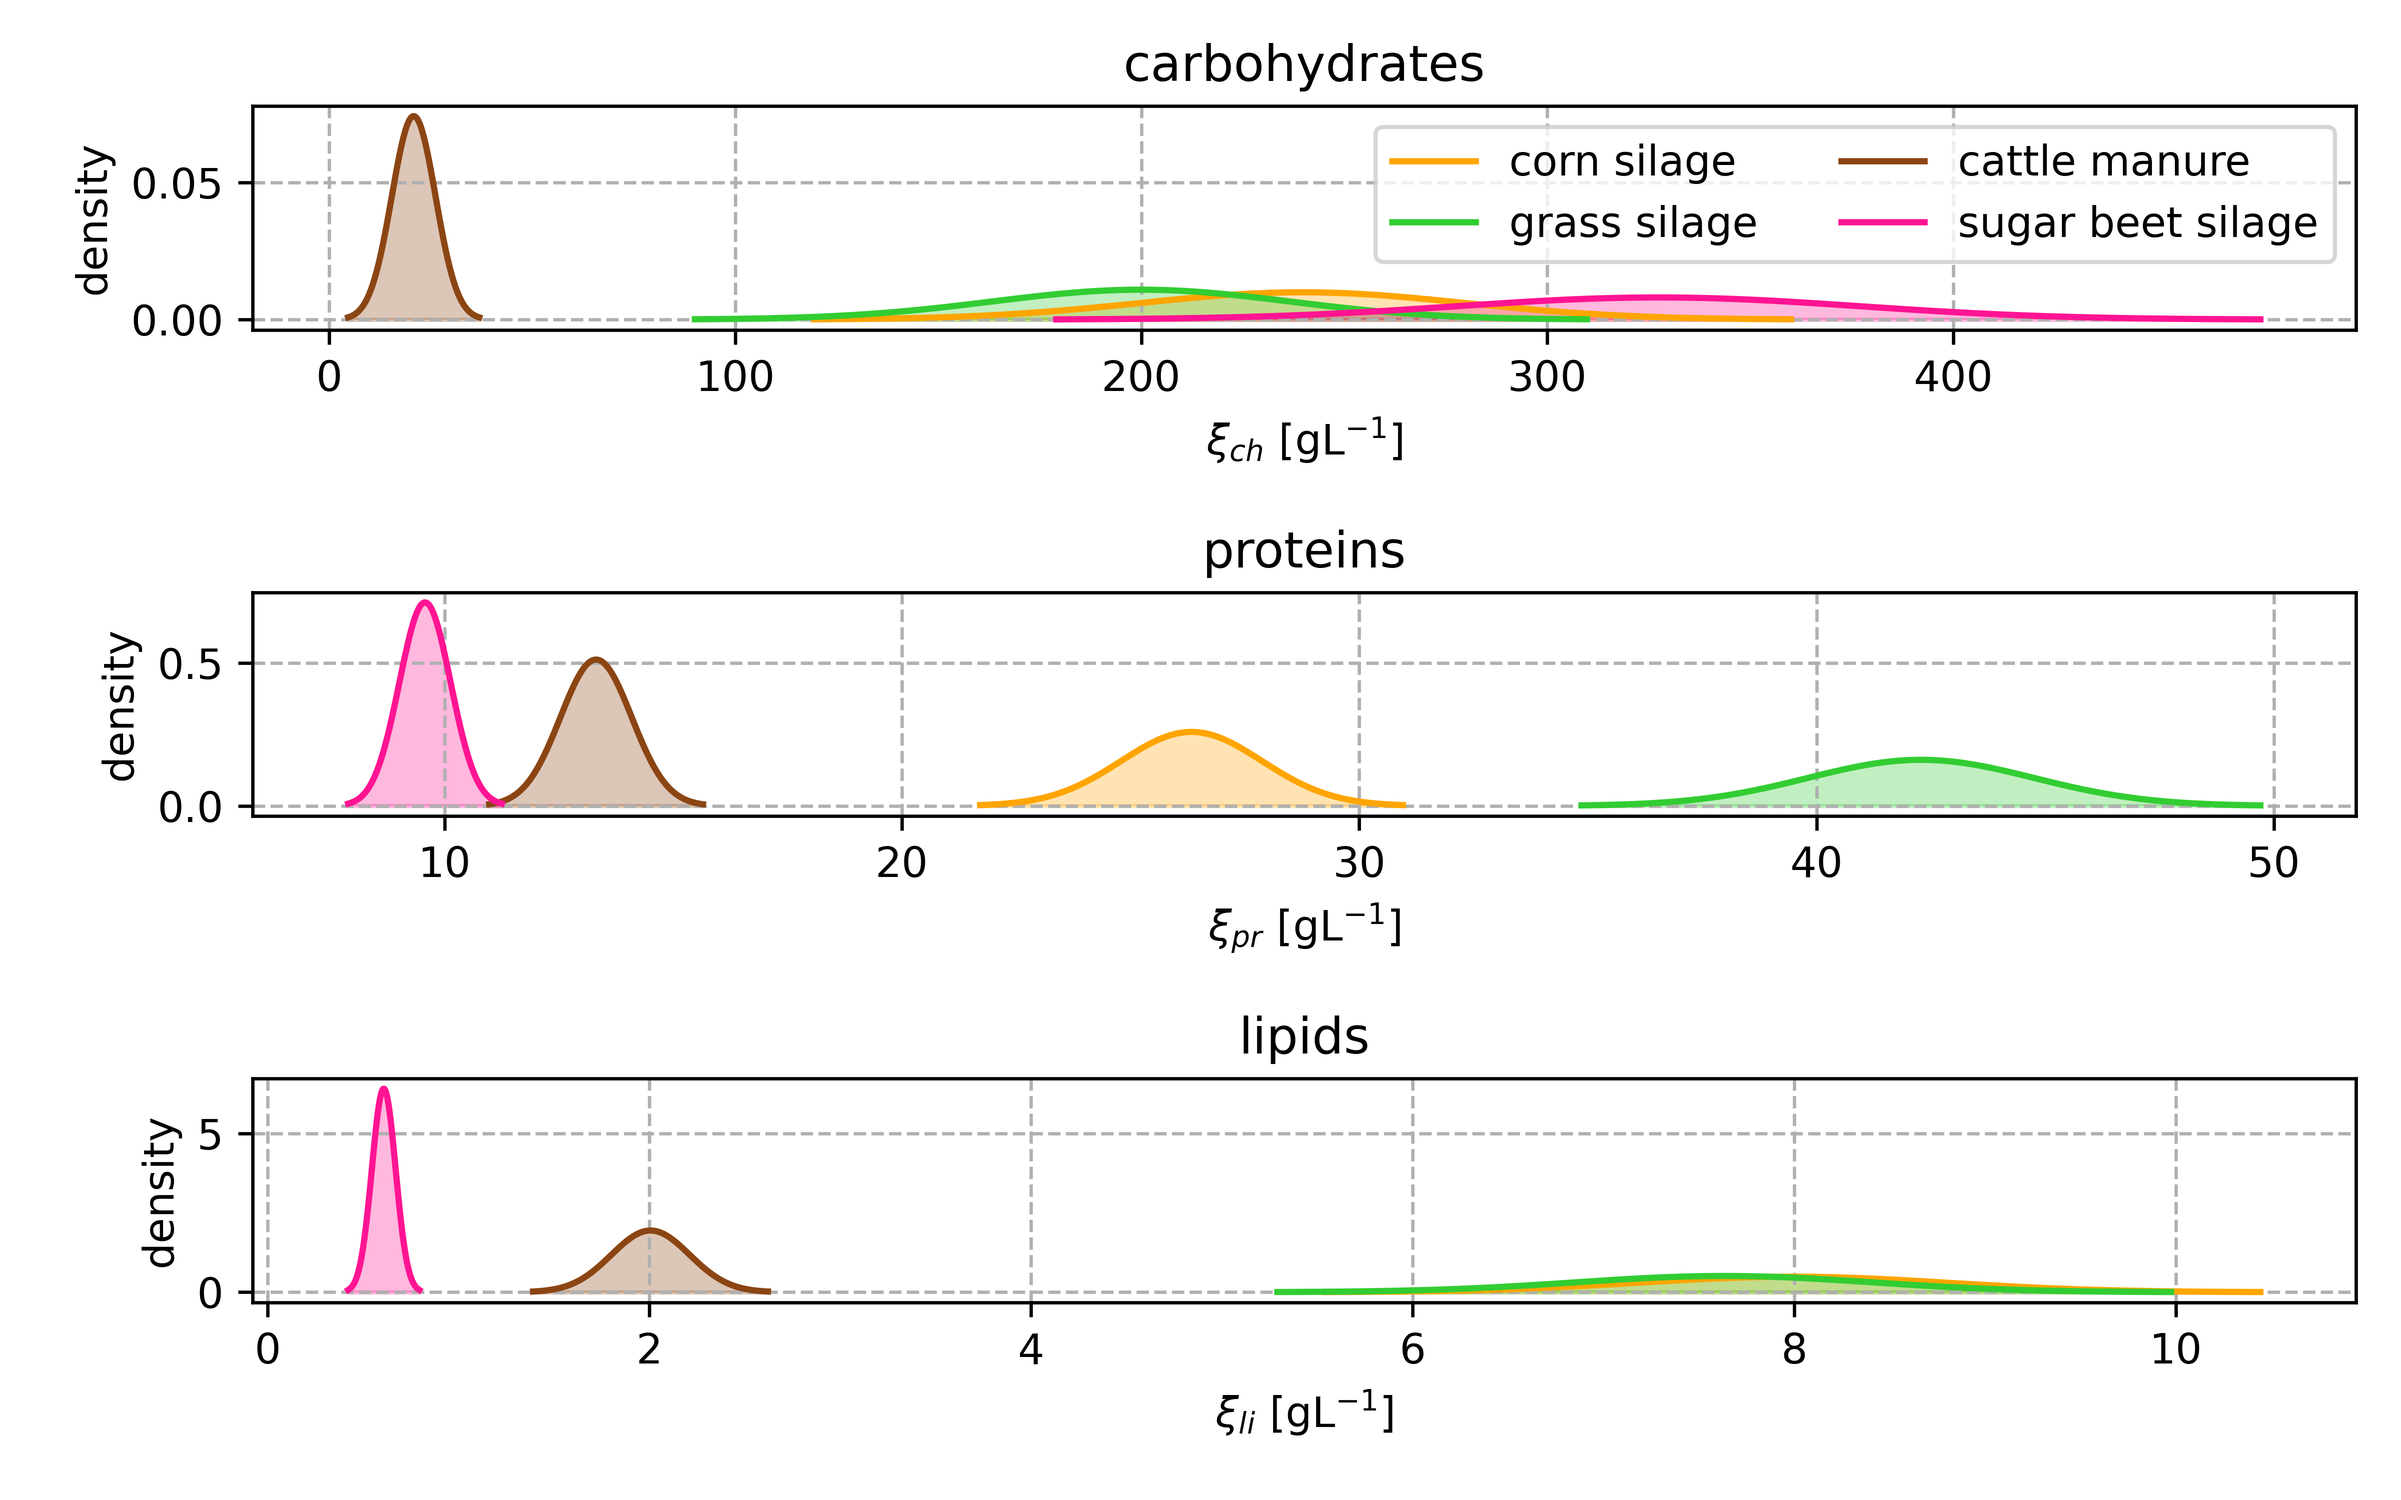
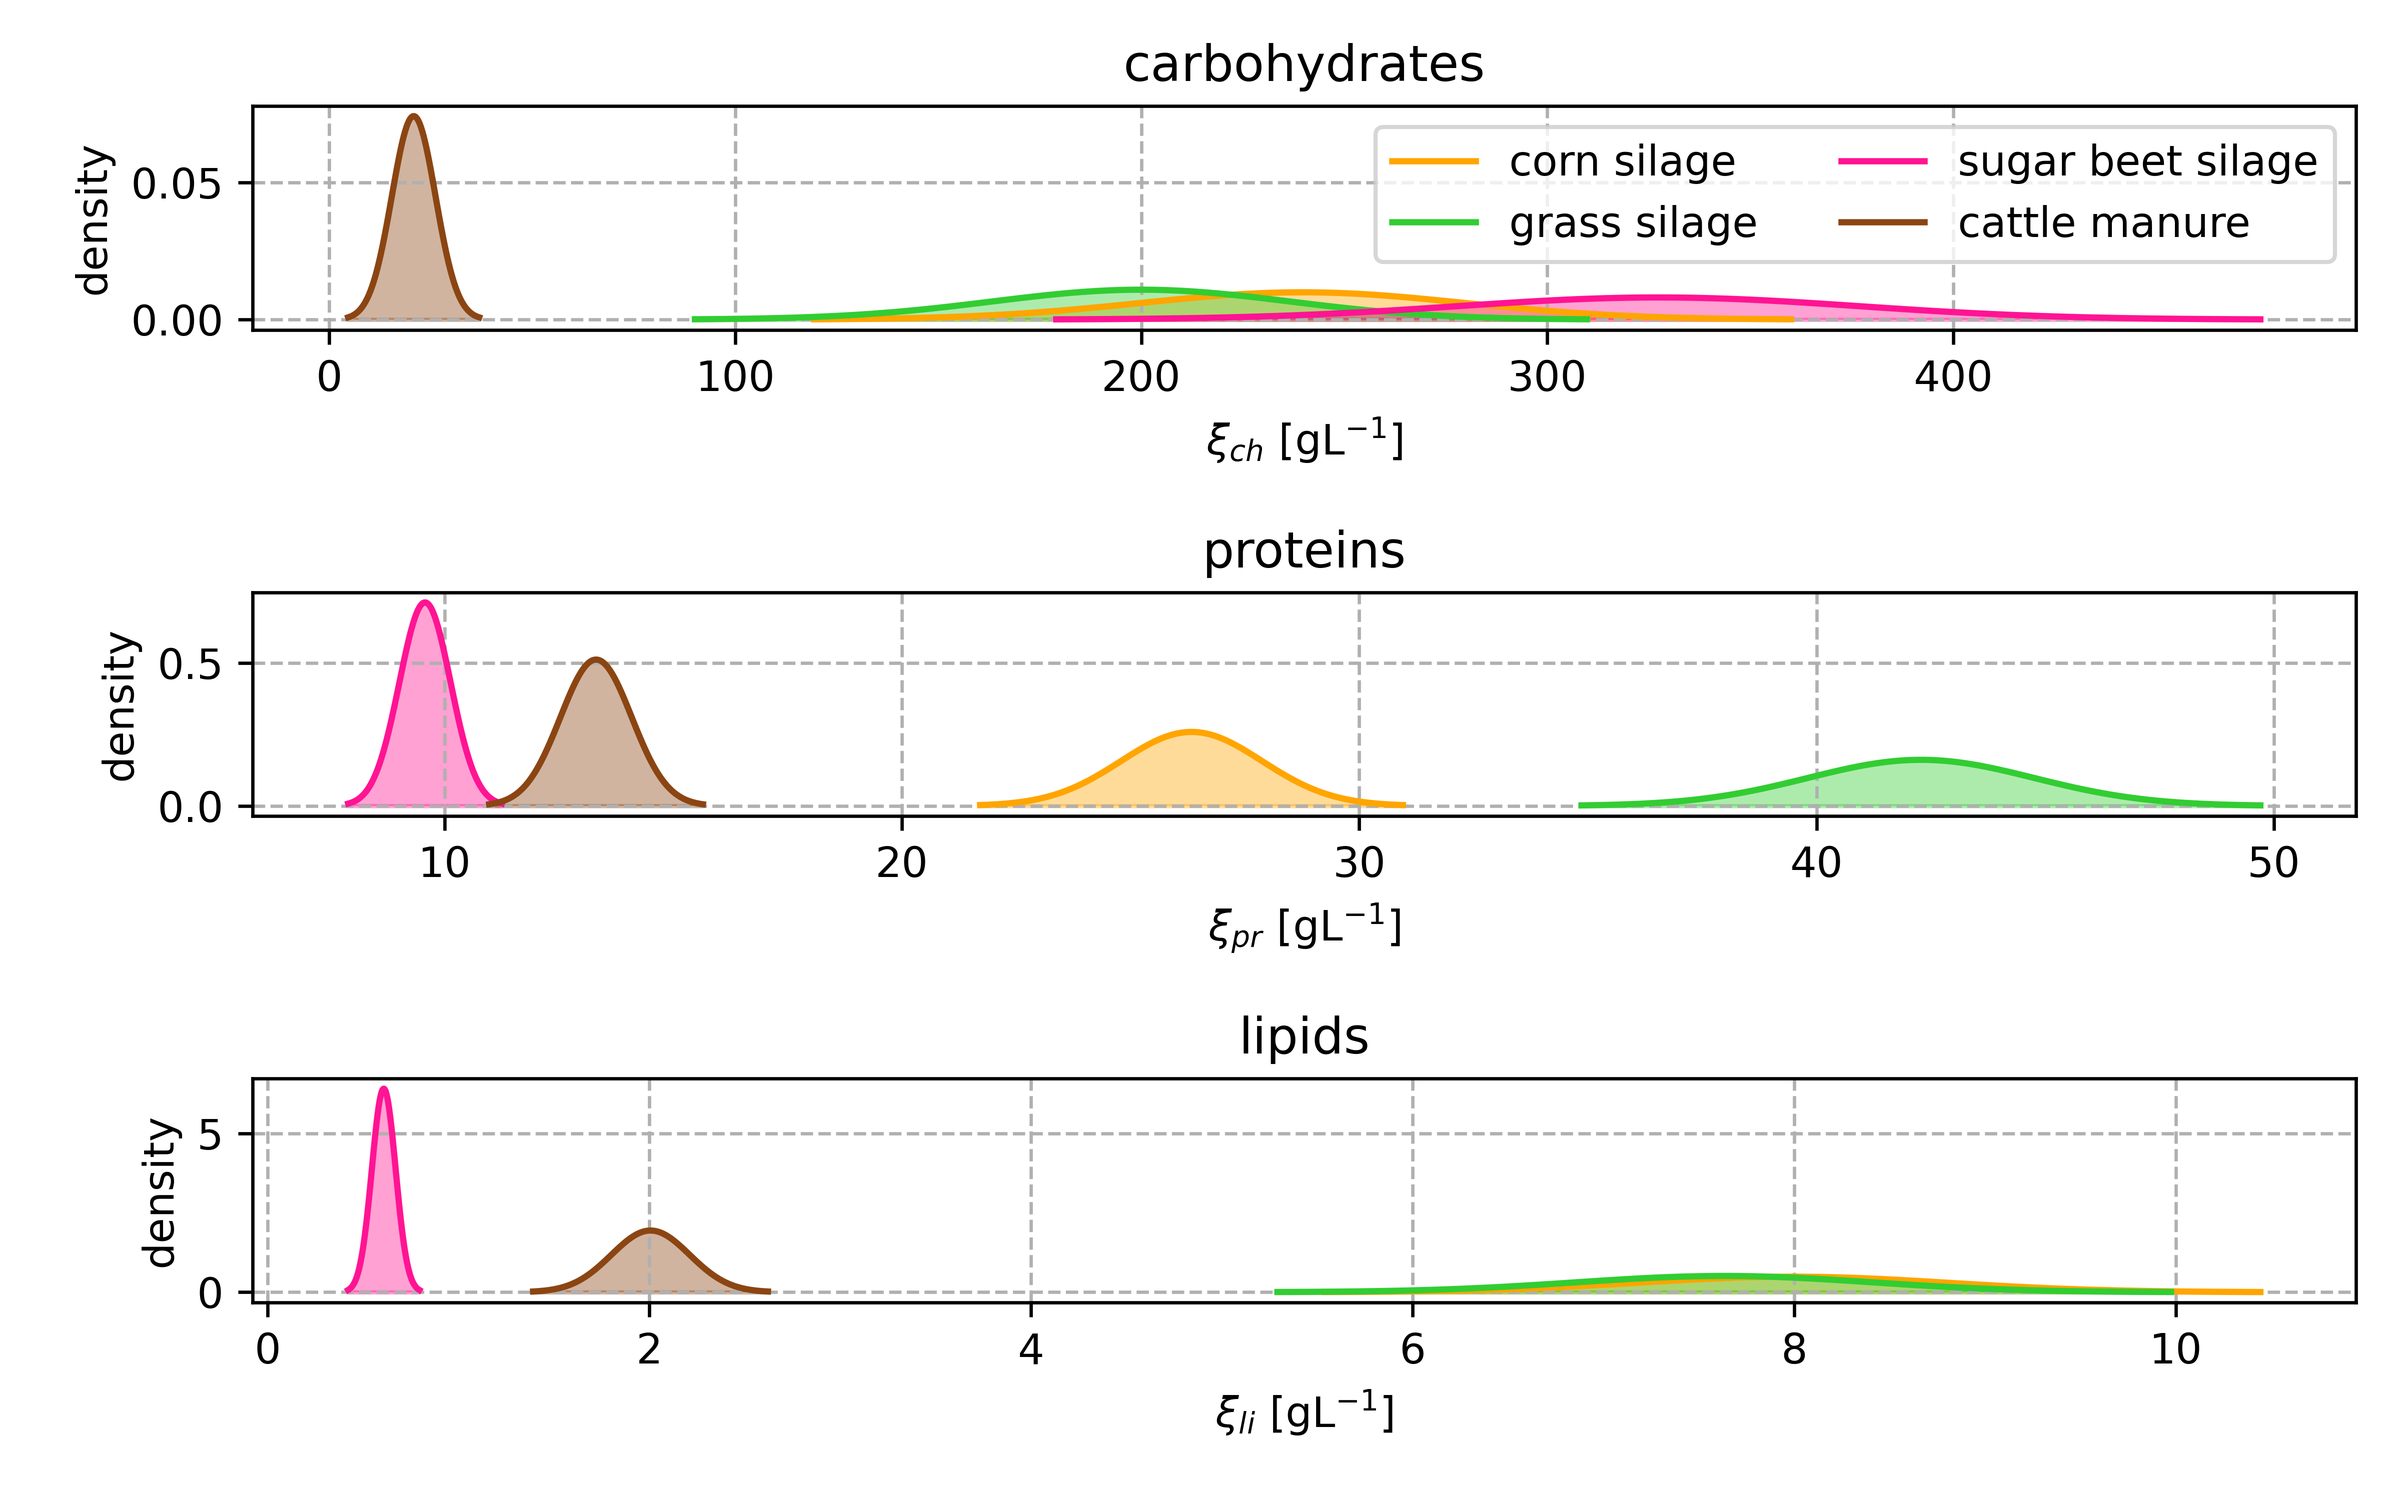
update normal distributions Julius

diff --git a/ad_meal_prep_control/plot_generation/plot_xi_distributions.py b/ad_meal_prep_control/plot_generation/plot_xi_distributions.py
@@ -8,46 +8,80 @@ from matplotlib import colors
 from ad_meal_prep_control.utils import Scenario
 from ad_meal_prep_control import substrates
 
-# load input concentrations from excel:
-file_path = '../../data/data_out/v2023/nominal_inlet_concentrations.xlsx'
-macro_nutrients_data = pd.read_excel(file_path)
-
-# Extract macro nutrients from excel:
-substrate_cols = ['Maissilage', 'Grassilage', 'Rinderguelle', 'Zuckerruebensilage']
-carbs = macro_nutrients_data.loc[5, substrate_cols].values
-proteins = macro_nutrients_data.loc[7, substrate_cols].values
-lipids = macro_nutrients_data.loc[8, substrate_cols].values
-
-means_all = {
-    "ch": np.append(carbs, carbs[2]),  # append uncertain cattle manure
-    "pr": np.append(proteins, proteins[2]),
-    "li": np.append(lipids, lipids[2]),
-}
-
-std_devs_all = {
-    "ch": [40.085336, 36.613181, 5.378375, 49.423171],
-    "pr": [1.540789, 2.473993, 0.778969, 0.560114],
-    "li": [0.817209, 0.780554, 0.205133, 0.062160],
-}
+### preliminaries:
 substrate_names = [
     "CORN_SILAGE",
     "GRASS_SILAGE",
-    "CATTLE_MANURE",
     "SUGAR_BEET_SILAGE",
+    "CATTLE_MANURE",
 ]
 
 substrate_colors = {
     "CORN_SILAGE": "orange",
     "GRASS_SILAGE": "limegreen",
-    "CATTLE_MANURE": "saddlebrown",
     "SUGAR_BEET_SILAGE": "deeppink",
+    "CATTLE_MANURE": "saddlebrown",
+}
+substrate_colors_dark = {
+    "CORN_SILAGE": "darkorange",
+    "GRASS_SILAGE": "green",
+    "SUGAR_BEET_SILAGE": "maroon",
+    "CATTLE_MANURE": "mediumvioletred",
 }
 
+### get data
+## theoretical data:
+# load input concentrations from excel:
+file_path = '../../data/data_out/v2023/nominal_inlet_concentrations.xlsx'
+macro_nutrients_data = pd.read_excel(file_path)
+
+# Extract macro nutrients from excel:
+substrate_cols = ['Maissilage', 'Grassilage', 'Zuckerruebensilage', 'Rinderguelle']
+carbs = macro_nutrients_data.loc[5, substrate_cols].values
+proteins = macro_nutrients_data.loc[7, substrate_cols].values
+lipids = macro_nutrients_data.loc[8, substrate_cols].values
+
+means_all = {   # ignore cattle manure very uncertain
+    "ch": carbs,
+    "pr": proteins,
+    "li": lipids,
+}
+
+std_devs_all = {
+    "ch": [40.085336, 36.613181, 49.423171, 5.378375],
+    "pr": [1.540789, 2.473993, 0.560114, 0.778969],
+    "li": [0.817209, 0.780554, 0.062160, 0.205133],
+}
+
+## measured data:
+# Read all sheets into a dictionary of DataFrames
+excel_file = '../../data/data_out/v2023/macro_nutrients_concentrations.xlsx'
+all_sheets = pd.read_excel(excel_file, sheet_name=None)
+
+df_cornsilage = all_sheets['Maissilage']
+df_grassilage = all_sheets['Grassilage']
+df_sugarbeet = all_sheets['Zuckerruebensilage']
+df_manure = all_sheets['Rinderguelle']
+dfs_substrates = [df_cornsilage, df_grassilage, df_sugarbeet, df_manure]
+
+#sub_names = ['corn silage', 'grass silage', 'sugar beet silage', 'cattle manure']
+#sub_colors = ['orange', 'limegreen', 'deeppink', 'saddlebrown']
+
+df_carbs = pd.concat(
+    [df_cornsilage.iloc[:, 0], df_grassilage.iloc[:, 0], df_sugarbeet.iloc[:, 0], df_manure.iloc[:, 0]], axis=1)
+df_protein = pd.concat(
+    [df_cornsilage.iloc[:, 1], df_grassilage.iloc[:, 1], df_sugarbeet.iloc[:, 1], df_manure.iloc[:, 1]], axis=1)
+df_lipids = pd.concat(
+    [df_cornsilage.iloc[:, 2], df_grassilage.iloc[:, 2], df_sugarbeet.iloc[:, 2], df_manure.iloc[:, 2]], axis=1)
+# rename column headings:
+dfs = [df_carbs, df_protein, df_lipids]
+for k in range(3):
+    dfs[k].columns = [substrate_names[k].lower() for k in range(4)]
+
+### draw plot:
 fig, axes = plt.subplots(nrows=len(means_all), ncols=1)
 
-for idx, (means, std_devs, ax) in enumerate(
-        zip(means_all.values(), std_devs_all.values(), axes)
-):
+for idx, (means, std_devs, ax) in enumerate(zip(means_all.values(), std_devs_all.values(), axes)):
     ax.grid(True, linestyle="--")
     for mean, std_dev, sub_name in zip(means, std_devs, substrate_names):
         values = np.linspace(mean - 3 * std_dev, mean + 3 * std_dev, 100)  # draw +/- 3 sigmas
@@ -69,7 +103,7 @@ for idx, (means, std_devs, ax) in enumerate(
             )
 
         # add vertical lines at 2 sigmas for each substrate:
-        #for i in [-1, 1]:
+        # for i in [-1, 1]:
         #    ax.vlines(
         #        x=mean + 2.0 * i * std_dev,
         #        ymin=0,
@@ -77,20 +111,20 @@ for idx, (means, std_devs, ax) in enumerate(
         #        color=colors.to_rgba(substrate_colors[sub_name]),
         #    )
 
-            # add vertical blue lines at 1.5 sigmas:
-            #ax.vlines(
-            #    x=mean + 1.5 * i * std_dev,
-            #    ymin=0,
-            #    ymax=max(distribution),
-            #    color="blue",
-            #)
+        # add vertical blue lines at 1.5 sigmas:
+        # ax.vlines(
+        #    x=mean + 1.5 * i * std_dev,
+        #    ymin=0,
+        #    ymax=max(distribution),
+        #    color="blue",
+        # )
 
         ax.fill_between(
             values,
             distribution,
             # where=(values > mean - 2.0 * std_dev) & (values < mean + 2.0 * std_dev),
             color=colors.to_rgba(substrate_colors[sub_name]),
-            alpha=0.3,
+            alpha=0.4,
         )
 
 # fig.suptitle("Normalverteilung")

diff --git a/ad_meal_prep_control/plot_generation/horizontal_boxplot_macronutrients.py b/ad_meal_prep_control/plot_generation/horizontal_boxplot_macronutrients.py
@@ -5,7 +5,7 @@ import pandas as pd
 from pathlib import Path
 from webencodings import labels
 
-##### get the fuckin data from excel, motherfucker!
+##### get the fuckin data from excel:
 # draw a single boxplot only for carbs of corn silage
 # Read all sheets into a dictionary of DataFrames
 excel_file = '../../data/data_out/v2023/macro_nutrients_concentrations.xlsx'
